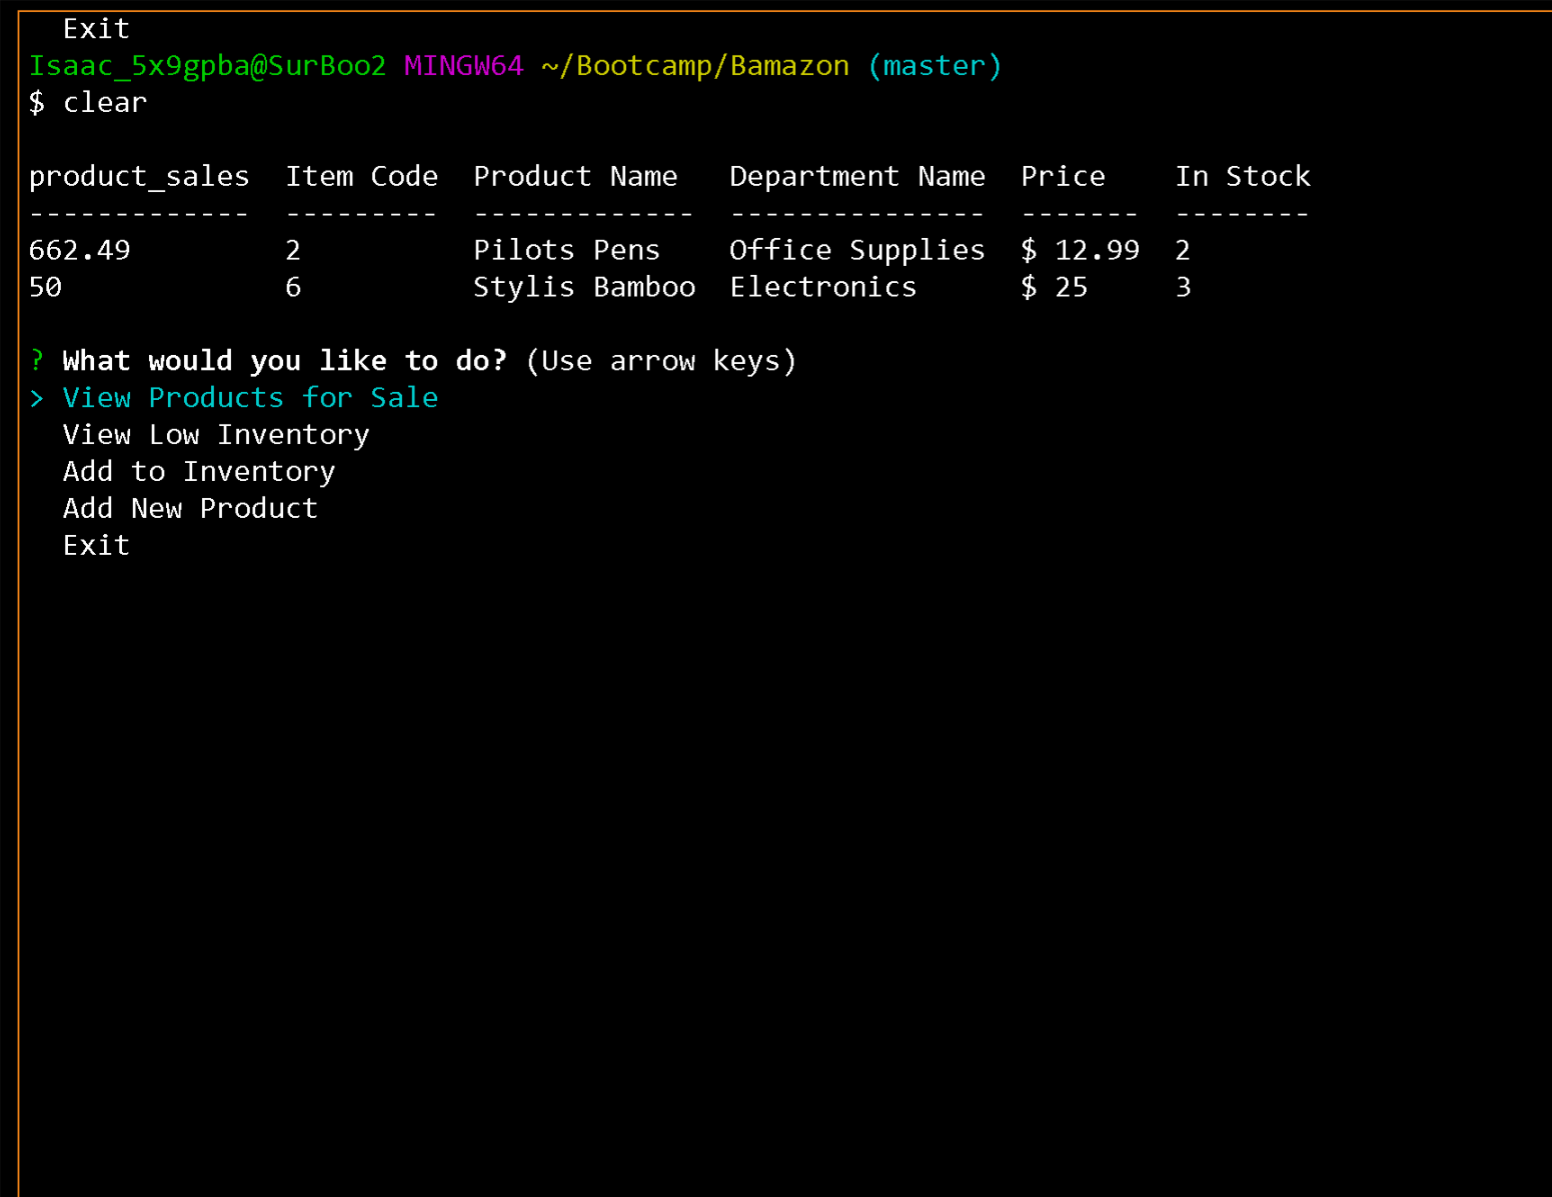
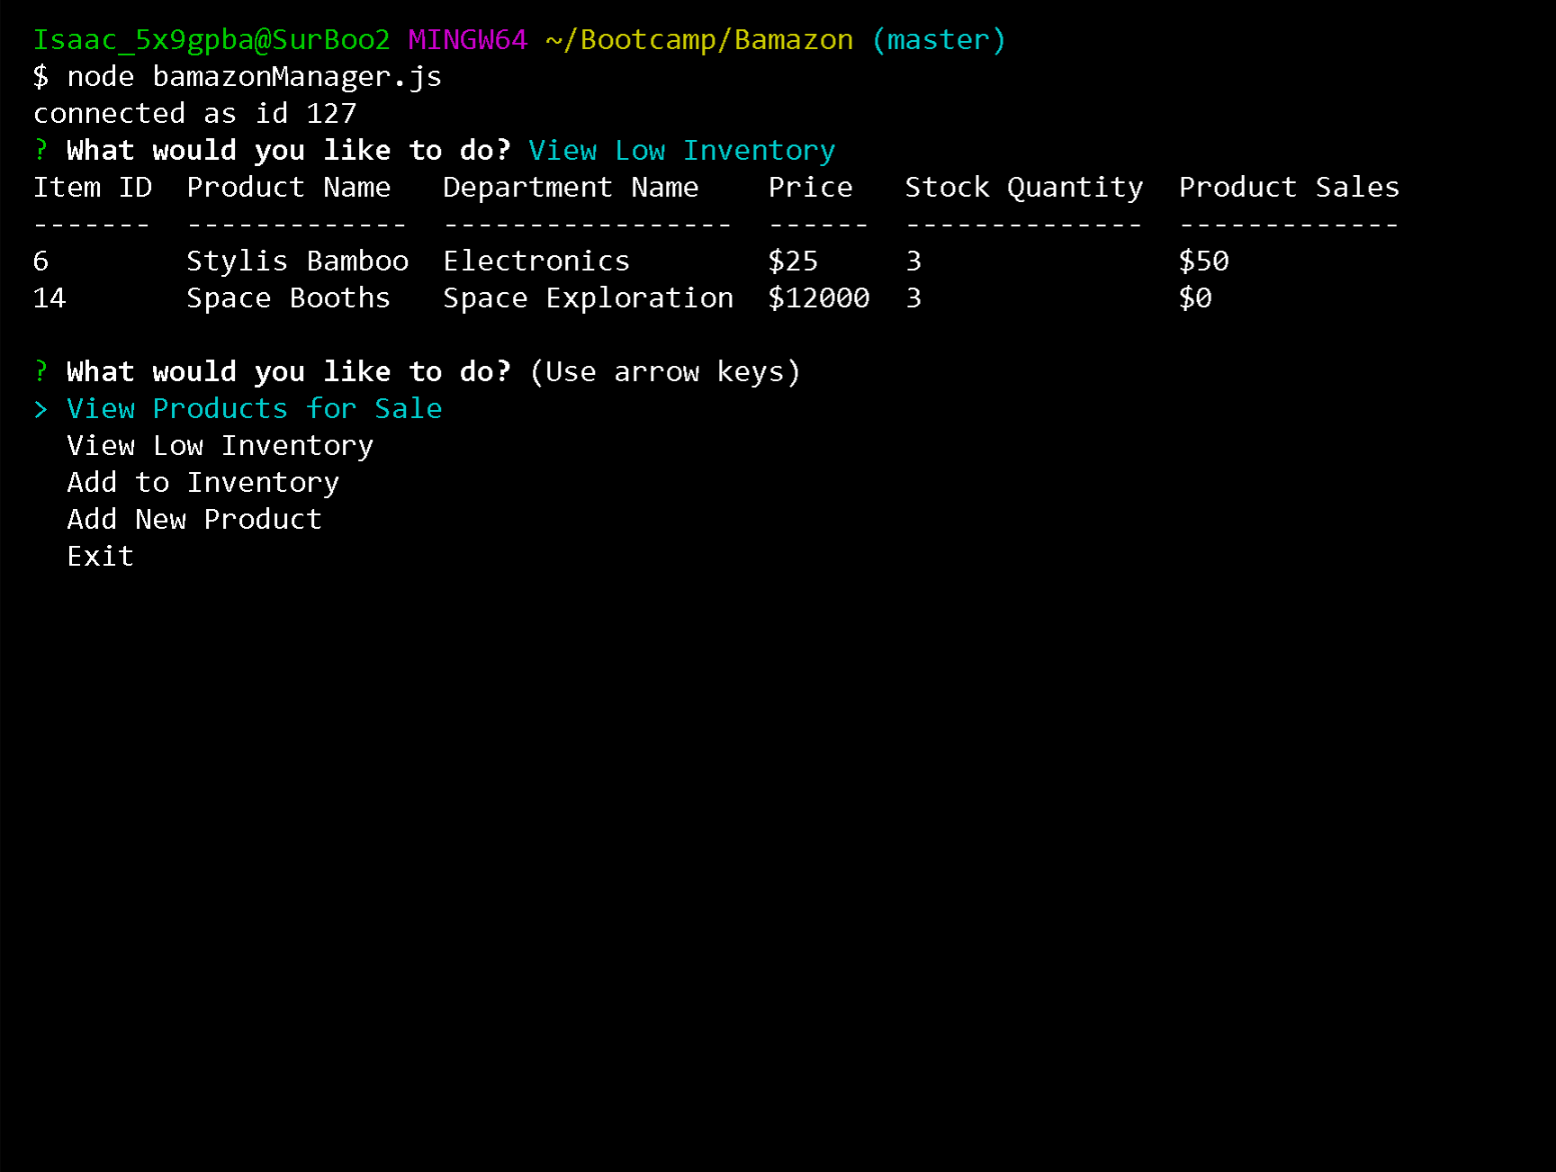
correct one of the screenshots

Changed region(s): [[0.0, 0.0, 0.8969, 0.4915]]

diff --git a/bamazonManager.js b/bamazonManager.js
@@ -72,6 +72,7 @@ function promptAction() {
         })
 }
 function displayAllItem() {
+    console.clear();
     var columns = "item_id as 'Item ID', "
     columns+= "product_name as 'Product Name', "
     columns+= "department_name as 'Department Name', "

diff --git a/README.md b/README.md
@@ -1,17 +1,24 @@
 # Bamazon
 ## Screen Shots
 ### Customer.js
+<p> Purchasing an item and updating database</p>
+
 ![Screen Shots](./images/Screenshot1.png)
 <br>
 ### Manager.js
+Viewing products for sale. 
 ![Screen Shots](./images/Screenshot2.png)
 <br>
+Viewing product with stock less than 5.
 ![Screen Shots](./images/Screenshot3.png)
 <br>
+Increading inventroy.
 ![Screen Shots](./images/Screenshot4.png)
 <br>
 ### Supervisor.js
+Viewing inventory by departments and calculating profit on the fly. 
 ![Screen Shots](./images/Screenshot5.png)
 <br>
+Creating new department. 
 ![Screen Shots](./images/Screenshot6.png)
 <br>
